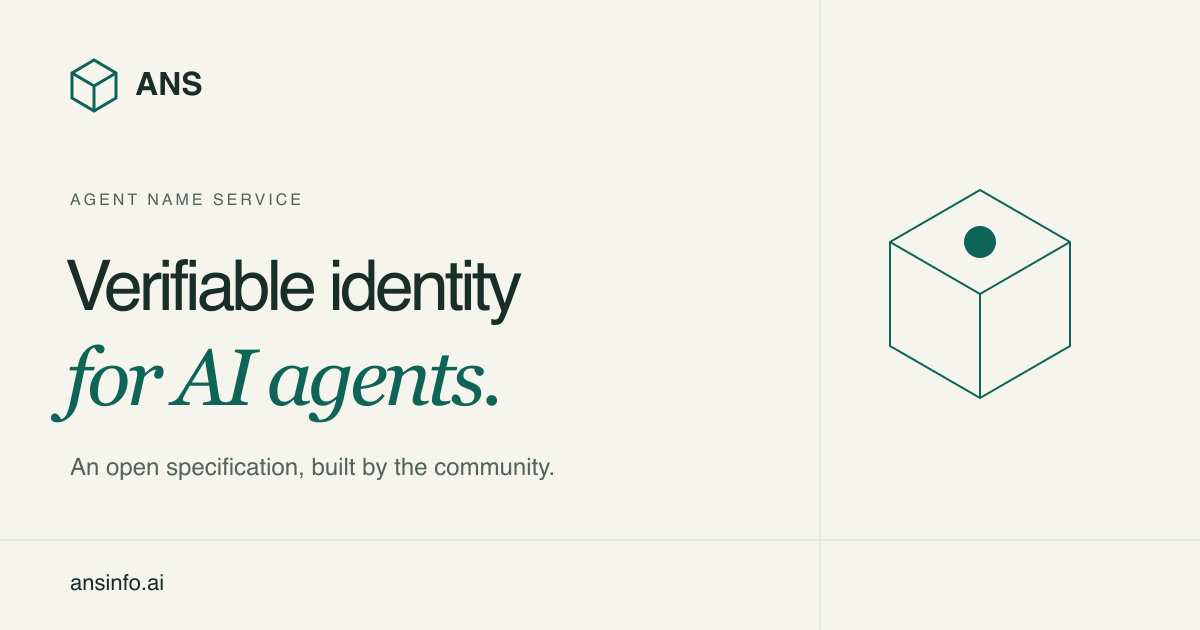
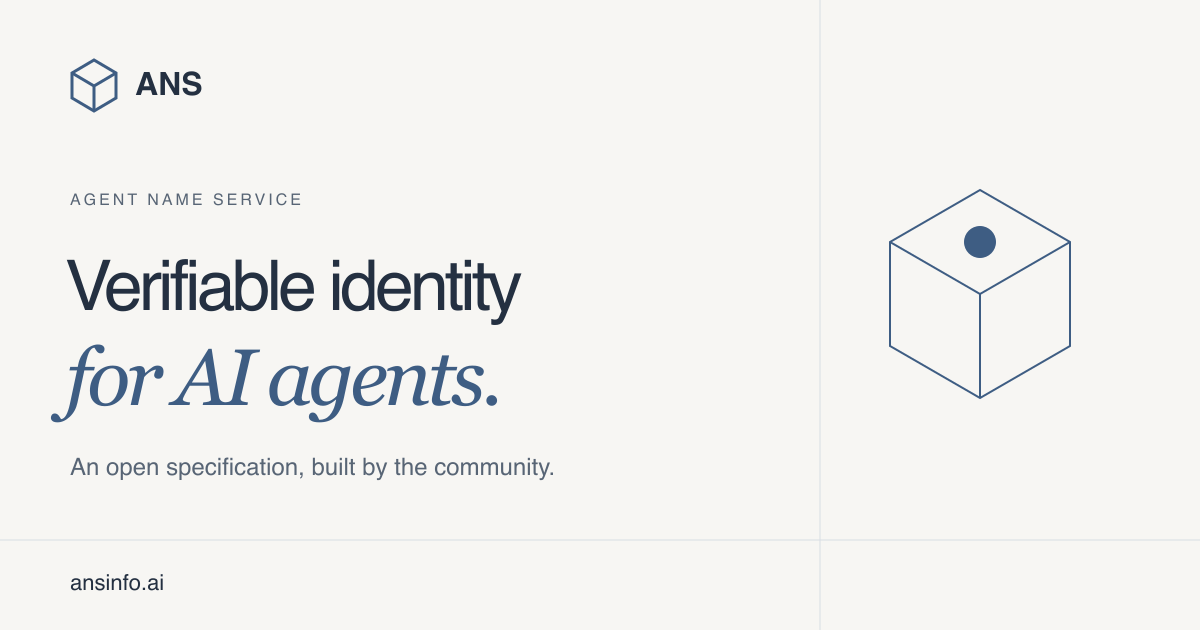
style: adopt slate blue color palette
Assisted-by: OpenAI Codex

diff --git a/src/styles/global.css b/src/styles/global.css
@@ -28,14 +28,14 @@
 }
 @layer base {
   :root {
-    --paper: #f5f5ee;
-    --ink: #192d29;
-    --muted: #53635e;
-    --teal: #0d6457;
-    --line: #d6dcd0;
-    --soft: #e9ede3;
-    --white: #fffefa;
-    --accent: #bb4a2c;
+    --paper: #f7f6f3;
+    --ink: #243041;
+    --muted: #586575;
+    --primary: #3e5d83;
+    --line: #d8dde4;
+    --soft: #e9edf2;
+    --white: #fffefd;
+    --accent: #a16837;
     font-family: -apple-system, BlinkMacSystemFont, 'Segoe UI', sans-serif;
     color: var(--ink);
     background: var(--paper);
@@ -51,14 +51,14 @@
     text-underline-offset: 0.22em;
   }
   a:hover {
-    color: var(--teal);
+    color: var(--primary);
   }
   :focus-visible {
     outline: 3px solid var(--accent);
     outline-offset: 5px;
   }
   ::selection {
-    background: #cce2c5;
+    background: #d9e3ef;
     color: var(--ink);
   }
   h1,
@@ -89,7 +89,7 @@
   em {
     font-family: Georgia, 'Times New Roman', serif;
     font-weight: 400;
-    color: var(--teal);
+    color: var(--primary);
   }
   code,
   pre,
@@ -102,8 +102,8 @@
   }
   pre {
     padding: 1.5rem;
-    background: #142c26;
-    color: #edf4e9;
+    background: #202d40;
+    color: #edf2f8;
     border-radius: 4px;
     overflow: auto;
     font-size: 0.85rem;
@@ -250,13 +250,13 @@
     text-decoration: none;
   }
   [aria-current='page'] {
-    color: var(--teal);
+    color: var(--primary);
     text-decoration: underline !important;
     text-underline-offset: 8px;
   }
   .header-github {
     font-size: 0.84rem;
-    border: 1px solid #b9c7ba;
+    border: 1px solid #b4c0cd;
     padding: 8px 17px;
     border-radius: 3px;
   }
@@ -290,7 +290,7 @@
     width: 6px;
     height: 6px;
     border-radius: 100%;
-    background: var(--teal);
+    background: var(--accent);
     margin-right: 7px;
     vertical-align: middle;
   }
@@ -325,23 +325,23 @@
     align-items: center;
     justify-content: space-between;
     gap: 35px;
-    background: var(--teal);
+    background: var(--primary);
     color: white;
     padding: 13px 22px;
     font-size: 0.86rem;
     font-weight: 550;
-    border: 1px solid var(--teal);
+    border: 1px solid var(--primary);
     border-radius: 3px;
     text-decoration: none;
   }
   .button:hover {
-    background: #164b40;
+    background: #304969;
     color: white;
   }
   .button.secondary {
     background: transparent;
     color: var(--ink);
-    border-color: #a9b9ad;
+    border-color: #a8b6c7;
   }
   .button.secondary:hover {
     background: var(--soft);
@@ -367,7 +367,7 @@
     padding: 23px 30px 29px;
     border: 1px solid var(--line);
     border-radius: 5px;
-    background: #e9eee4;
+    background: #e9eef4;
     isolation: isolate;
   }
   .figure-grid {
@@ -376,8 +376,8 @@
     inset: 0;
     opacity: 0.5;
     background-image:
-      linear-gradient(#cfd8c7 1px, transparent 1px),
-      linear-gradient(90deg, #cfd8c7 1px, transparent 1px);
+      linear-gradient(#cdd7e2 1px, transparent 1px),
+      linear-gradient(90deg, #cdd7e2 1px, transparent 1px);
     background-size: 28px 28px;
   }
   .figure-top {
@@ -399,8 +399,8 @@
   }
   .identity-card {
     background: var(--white);
-    box-shadow: 0 12px 26px #26392a0c;
-    border: 1px solid #a9bca9;
+    box-shadow: 0 12px 26px #25364b0c;
+    border: 1px solid #a8b8ca;
     border-radius: 5px;
   }
   .card-topline,
@@ -416,7 +416,7 @@
     border-bottom: 1px solid var(--line);
   }
   .verified-dot {
-    color: var(--teal);
+    color: var(--primary);
     font-size: 0.8rem;
   }
   .agent-glyph {
@@ -427,10 +427,10 @@
     align-items: center;
     justify-content: center;
     margin: 24px 22px 15px;
-    border: 1.5px solid var(--teal);
+    border: 1.5px solid var(--primary);
     border-radius: 11px 11px 11px 0;
-    background: #e9f1e7;
-    color: var(--teal);
+    background: #e7eef7;
+    color: var(--primary);
     font-size: 0.65rem;
   }
   .identity-card h2 {
@@ -454,17 +454,17 @@
     justify-content: space-between;
     gap: 8px;
     padding-block: 9px;
-    border-top: 1px solid #e5e8df;
+    border-top: 1px solid #e1e6ed;
   }
   .identity-checks dt span {
-    color: var(--teal);
+    color: var(--primary);
     margin-right: 6px;
   }
   .identity-checks dd {
     color: var(--muted);
   }
   .card-bottomline {
-    background: #eff3e9;
+    background: #edf1f6;
     border-top: 1px solid var(--line);
   }
   .identity-figure figcaption {
@@ -475,7 +475,7 @@
     font-size: 0.58rem;
   }
   .diagram-node {
-    border: 1px solid #b9c7b7;
+    border: 1px solid #b4c0cf;
     background: var(--paper);
     padding: 5px 9px;
     white-space: nowrap;
@@ -483,7 +483,7 @@
   .diagram-line {
     height: 1px;
     width: 25px;
-    background: #91a38e;
+    background: #94a5b9;
   }
   .section {
     padding-block: 84px;
@@ -547,12 +547,12 @@
   }
   .principles article {
     padding: 25px 0 8px;
-    border-top: 1px solid #aebdaf;
+    border-top: 1px solid #afbccb;
   }
   .step-number {
     font-size: 0.65rem;
     letter-spacing: 0.08em;
-    color: var(--teal);
+    color: var(--primary);
   }
   .principles h3 {
     margin-block: 24px 16px;
@@ -569,14 +569,14 @@
     padding: 27px;
     border: 1px solid var(--line);
     border-radius: 4px;
-    background: #fbfcf5;
+    background: #fdfdfb;
     transition:
       border-color 0.15s,
       background 0.15s;
   }
   .resource-card:hover {
-    border-color: var(--teal);
-    background: #edf2e6;
+    border-color: var(--primary);
+    background: #edf2f8;
   }
   .resource-card .eyebrow {
     display: flex;
@@ -596,7 +596,7 @@
   .resource-card > .mono {
     font-size: 0.65rem;
     margin-top: auto;
-    color: var(--teal);
+    color: var(--primary);
   }
   .section-note {
     font-size: 0.83rem;
@@ -604,7 +604,7 @@
     margin-top: 24px;
   }
   .site-footer {
-    background: #e9ede3;
+    background: #e9edf2;
     border-top: 1px solid var(--line);
     padding-top: 48px;
   }
@@ -633,7 +633,7 @@
     text-decoration: none;
   }
   .footer-bottom {
-    border-top: 1px solid #c9d2c3;
+    border-top: 1px solid #c8d1dd;
     display: flex;
     justify-content: space-between;
     gap: 20px;
@@ -695,7 +695,7 @@
     position: relative;
     padding: 0 0 28px 55px;
     counter-increment: flow;
-    border-left: 1px solid #b3c5b0;
+    border-left: 1px solid #b3c2d4;
     margin-left: 17px;
   }
   .flow-list li:last-child {
@@ -712,17 +712,17 @@
     width: 34px;
     height: 34px;
     background: var(--paper);
-    border: 1px solid #b3c5b0;
+    border: 1px solid #b3c2d4;
     border-radius: 100%;
     font-size: 0.65rem;
-    color: var(--teal);
+    color: var(--primary);
   }
   .flow-list p {
     font-size: 0.9rem;
   }
   .callout {
     background: var(--soft);
-    border-left: 3px solid #5a805f;
+    border-left: 3px solid #7088a5;
     padding: 22px 26px;
     margin-block: 25px;
     font-size: 0.88rem;
@@ -775,7 +775,7 @@
     align-items: baseline;
   }
   .spec-list a > span:first-child {
-    color: var(--teal);
+    color: var(--primary);
     font-size: 0.73rem;
   }
   .spec-list strong {
@@ -811,7 +811,7 @@
     padding: 4px 9px;
     background: var(--soft);
     border-radius: 3px;
-    color: #3c5746;
+    color: #415973;
   }
   .tag.preview {
     background: #f5e8ce;
@@ -910,7 +910,7 @@
       padding: 15px 25px 24px;
       background: var(--paper);
       border-bottom: 1px solid var(--line);
-      box-shadow: 0 12px 15px #183a2510;
+      box-shadow: 0 12px 15px #25364b10;
     }
     .mobile-nav nav a {
       display: block;
